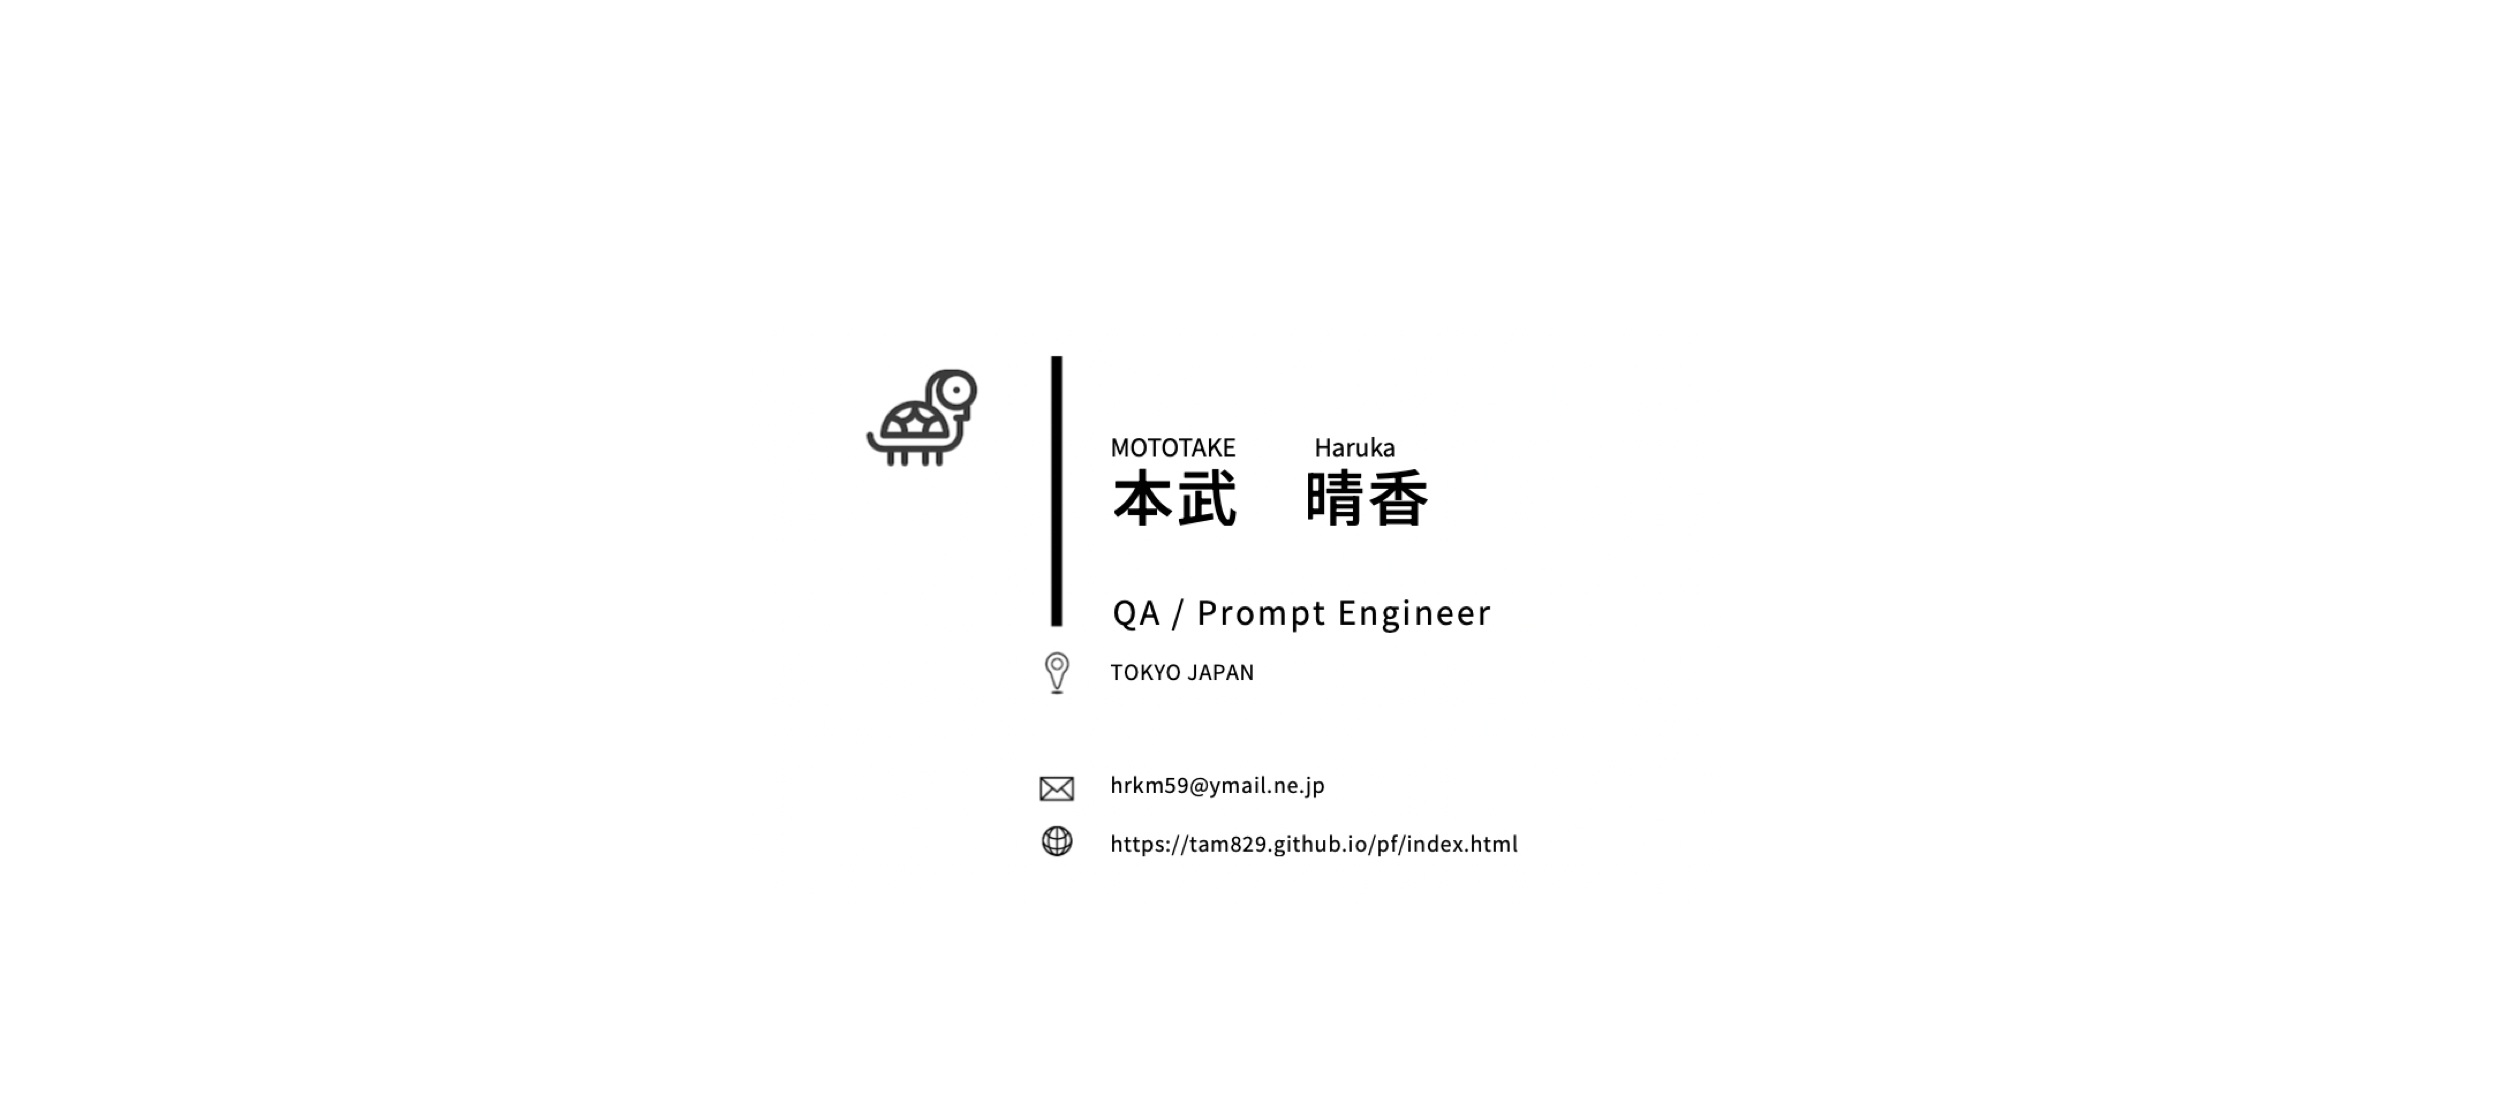
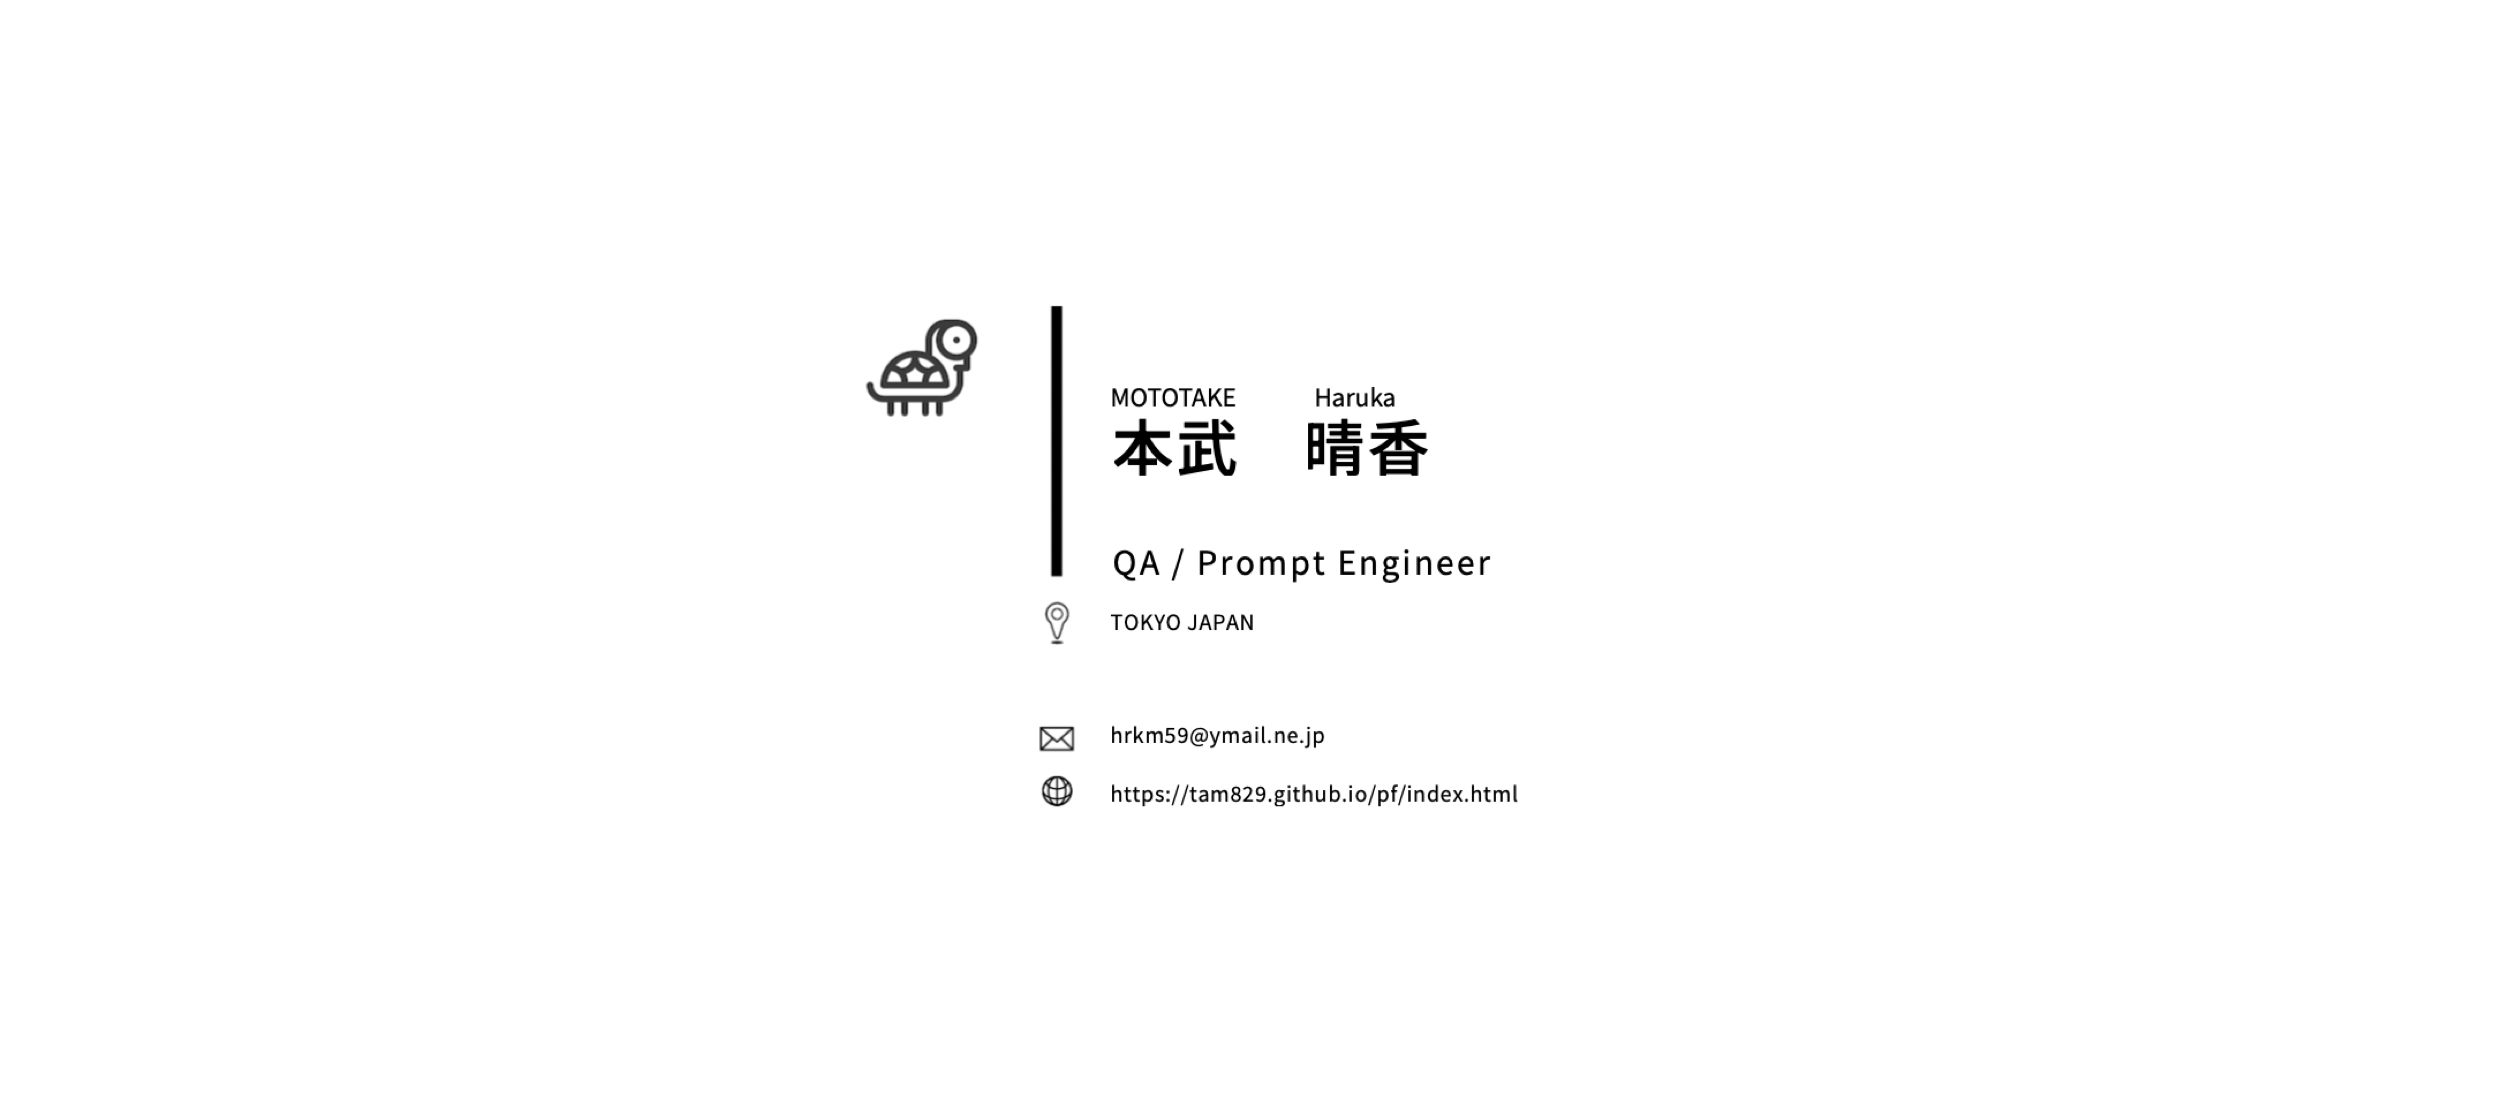
UPDATE_230112
index.html
・格言→最終更新日
・画像差し替え
・追加/修正

Changed region(s): [[0.4056, 0.34, 0.5928, 0.6182], [0.4056, 0.6491, 0.624, 0.7727], [0.3432, 0.2782, 0.4368, 0.4327]]

diff --git a/index.html b/index.html
@@ -71,8 +71,7 @@
         </h1>
 
         <h5><font color = "white">
-        It is never too late to be what you might have been.(George Elioto) 
-        </font></h5>
+        最終更新日：2023/1/12 21:00<font size=2>(JST)</font></font></h5>
 
         <nav>
           <ul>
@@ -96,7 +95,7 @@
     <div data-src="images/slide-tam2.png">
       <!--<div class="caption fadeIn">tamのロゴ画像</div>-->
     </div>
-    <div data-src="images/tam_meisi2401_camera.png">
+    <div data-src="images/tam_qameisi2401_camera.png">
       <!--<div class="caption fadeIn">tamの名刺画像</div>-->
     </div>
     <div data-src="images/bingai_packmansmarge_camera.png">
@@ -121,11 +120,11 @@
     <div class="container_12">
       <div class="grid_12">
         <h2 class="color2">経歴</h2>
-        <img src="images/tam_meisi2401.png" alt="" class="fleft">
+        <img src="images/tam_qameisi2401.png" alt="" class="fleft">
         <div class="extra_wrapper">
 			【学歴】
 	        <table>
-        <tr><td>1984年12月</td><td>　京都府京都市にて生誕</td><td>　</td></tr>
+        <tr><td>1984年12月</td><td>　京都府京都市にて生まれる</td><td>　</td></tr>
 				<tr><td>2003年3月</td><td>　私立 八洲学園高等学校</td><td>　卒業</td></tr>
 				<tr><td>2003年4月</td><td>　私立 京都産業大学 経営学部 経営学科</td><td>　入学</td></tr>
 				<tr><td>2007年4月</td><td>　私立 京都産業大学 経営学部 経営学科</td><td>　主席卒業</td></tr>
@@ -225,6 +224,14 @@
       <h2 class="color2">制作物</h2>
 		<table>
 
+      <tr><td>2023年12月　</td><td>BingAIにてアニメーション作成／非公開      
+      </td></tr>
+      <tr><td></td><td><font size=3px>　パックマンのような物体10個がランダムに動く<br>　尻尾がついている<br> 　ランダムに動いている間、尻尾が動く<br><br>　　で作ったが尻尾は円に接するように生成、追尾しない、1個だけ左右に微振動する、<br>　　とまだまだ調整が必要だが腹を抱えて笑ったのでお気に入り</td>
+      </font></td></tr>
+      <tr><td></td><td><img src="images/bingai_packmansmarge.png" alt="" class="">　<br></td></tr>
+      <tr><td>&nbsp;</td></tr>
+      <tr><td>&nbsp;</td></tr>
+
       <tr><td>2020年1月-2023年5月　</td><td>アプリゲーム内の楽器対応楽譜（Excel）／公開終了（2023年5月）      
       </td></tr>
       <tr><td></td><td><font size=3px>　19作品をExcelにて作成<br>　X（旧Twitter）にて画像配布<br>
@@ -292,7 +299,7 @@
     <tr><td>&nbsp;</td></tr>
     <tr><td>QA　</td><td>MySQL Workbench<br>POSTMAN<br>TestFlight<br>Xcode<br><br>会議ファシリテーション<br>アジェンダ・議事録作成<br>テスト計画 / 仕様書作成<br>新人受入 / 教育</td></tr>
     <tr><td>&nbsp;</td></tr>
-    <tr><td>プログラミング　</td><td>Python<br>HTML / CSS<br></td></tr>
+    <tr><td>プログラミング　</td><td>Python<br>HTML / CSS<br><br>Github<br>　Github Desktop</td></tr>
     <tr><td>&nbsp;</td></tr>
     <tr><td>生成型AI　</td><td>Bing AI<br>ChatGPT<br><br>Bing image creator from Microsoft Designer<br>Midjourney</td></tr>
     <tr><td>&nbsp;</td></tr>
@@ -320,8 +327,10 @@
       <table>
     <tr><td>ロゴ作成　</td><td><a href="https://www.designevo.com/jp/"  target="_blank">DesignEvo</a><br> </td></tr>
     <tr><td>&nbsp;</td></tr>
-		<tr><td>hoge</td></tr>
-		<tr><td>&nbsp;</td></tr>
+
+    <tr><td>名刺作成　</td><td><a href="https://www.labelyasan.com/template/item/01_meishi/"  target="_blank">DesignEvo</a><br> </td></tr>
+    <tr><td>&nbsp;</td></tr>
+
 		<tr><td>hoge</td></tr>
 		<tr><td>&nbsp;</td></tr>
 		<tr><td>hoge</td></tr>
